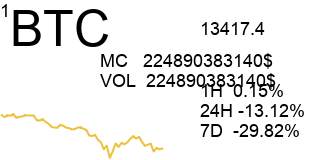
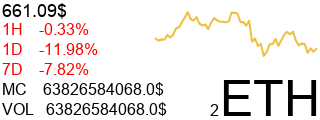
Formated

diff --git a/img_creation.py b/img_creation.py
@@ -3,12 +3,12 @@ import requests
 from bs4 import BeautifulSoup
 from io import BytesIO
 
-URL = 'https://api.coinmarketcap.com/v1/ticker/bitcoin/'
+URL = 'https://api.coinmarketcap.com/v1/ticker/ethereum/'
 width = 320
-height = 160
+height = 120
 
 
-def draw_text(d, pos, color=(0, 0, 0), text='', size=18):
+def draw_text(d, pos, color=(0, 0, 0, 255), text='', size=16):
     fnt = ImageFont.truetype("data/ARIAL.TTF", size)
     d.text(pos, fill=color, text=text, font=fnt)
 
@@ -25,13 +25,21 @@ def get_image(name):
     soup = BeautifulSoup(r.text, 'lxml')
     image = soup.find('a', text=name).parent.parent.find('img').attrs['src']
     return image
-  
+
+
+def get_color(x):
+    if float(x) >= 0:
+        return 0, 255, 0
+    else:
+        return 255, 0, 0
+
+
 def main():
     # Здесь, первый параметр это тип картинки, может быть:
     # 1 (черно-белый), L (монохромный, оттенки серого),
     # RGB, RGBA (RGB с альфа каналом), CMYK, YCbCr, I (32 bit Integer pixels),
     # F (32 bit Float pixels).
-    img = Image.new("RGBA", (width, height), (0, 0, 0, 0))
+    img = Image.new("RGBA", (width, height), (255, 255, 255, 255))
     draw = ImageDraw.Draw(img)
 
     rq = requests.get(URL).json()[0]
@@ -47,17 +55,19 @@ def main():
 
     img_rq = requests.get(get_image(_id))
     graph = Image.open(BytesIO(img_rq.content)).convert('RGBA')
+    dx = height / 6
 
-    img.paste(graph, (0, height - graph.height), graph)
-    draw_text(draw, (10, 0), text=symbol, size=50)
-    draw_text(draw, (0, 0), text=rank)
-    draw_text(draw, (200, 18), text=price_usd)
-    draw_text(draw, (200, 80), text='1H  ' + percent_change_1h + '%')
-    draw_text(draw, (200, 100), text='24H ' + percent_change_24h + '%')
-    draw_text(draw, (200, 120), text='7D  ' + percent_change_7d + '%')
-    draw_text(draw, (100, 50), text='MC   ' + market_cap_usd + '$')
-    draw_text(draw, (100, 70), text='VOL  ' + market_cap_usd + '$')
-    # draw.bitmap((50, 50), graph, fill=None)
+    img.paste(graph, (width - graph.width - 2, 10), graph)
+    draw_text(draw, (width - 100, height - 50), text=symbol, size=50)
+    draw_text(draw, (width / 2 + 50, height - 19), text=rank)
+
+    draw_text(draw, (2, dx * 0), text=price_usd + '$', size=18)
+
+    draw_text(draw, (2, dx * 1), text='1H    ' + percent_change_1h + '%', color=get_color(percent_change_1h))
+    draw_text(draw, (2, dx * 2), text='1D    ' + percent_change_24h + '%', color=get_color(percent_change_24h))
+    draw_text(draw, (2, dx * 3), text='7D    ' + percent_change_7d + '%', color=get_color(percent_change_7d))
+    draw_text(draw, (2, dx * 4), text='MC    ' + market_cap_usd + '$')
+    draw_text(draw, (2, dx * 5), text='VOL   ' + market_cap_usd + '$')
 
     del draw
     img.save("test.png", "PNG")
@@ -66,4 +76,3 @@ def main():
 
 if __name__ == '__main__':
     main()
-
